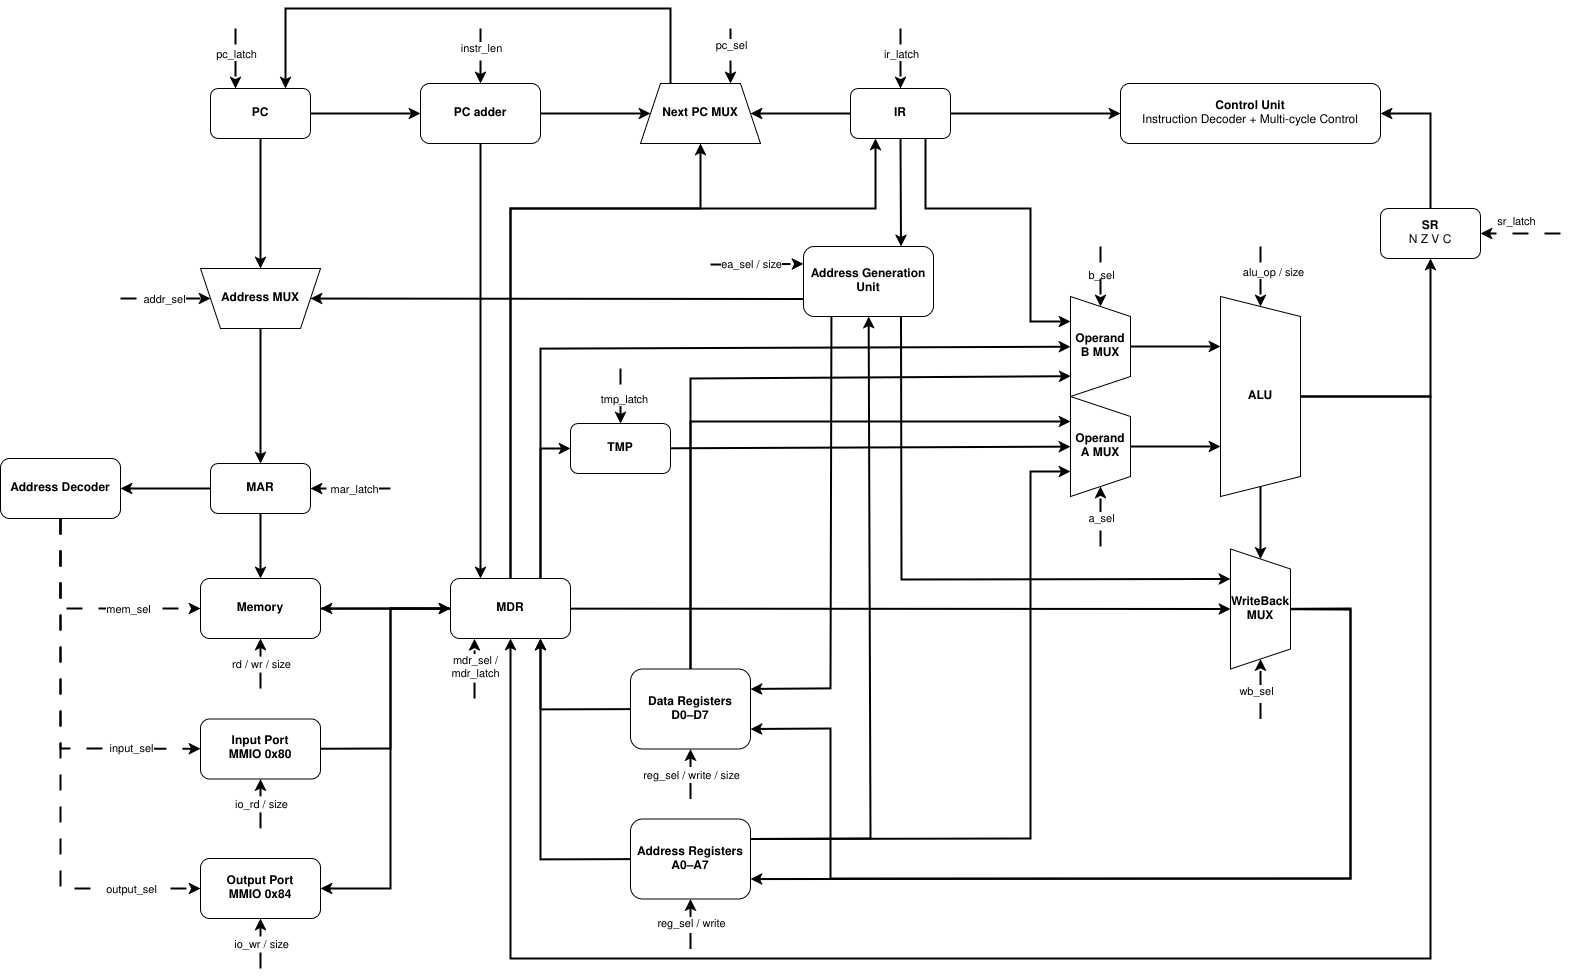
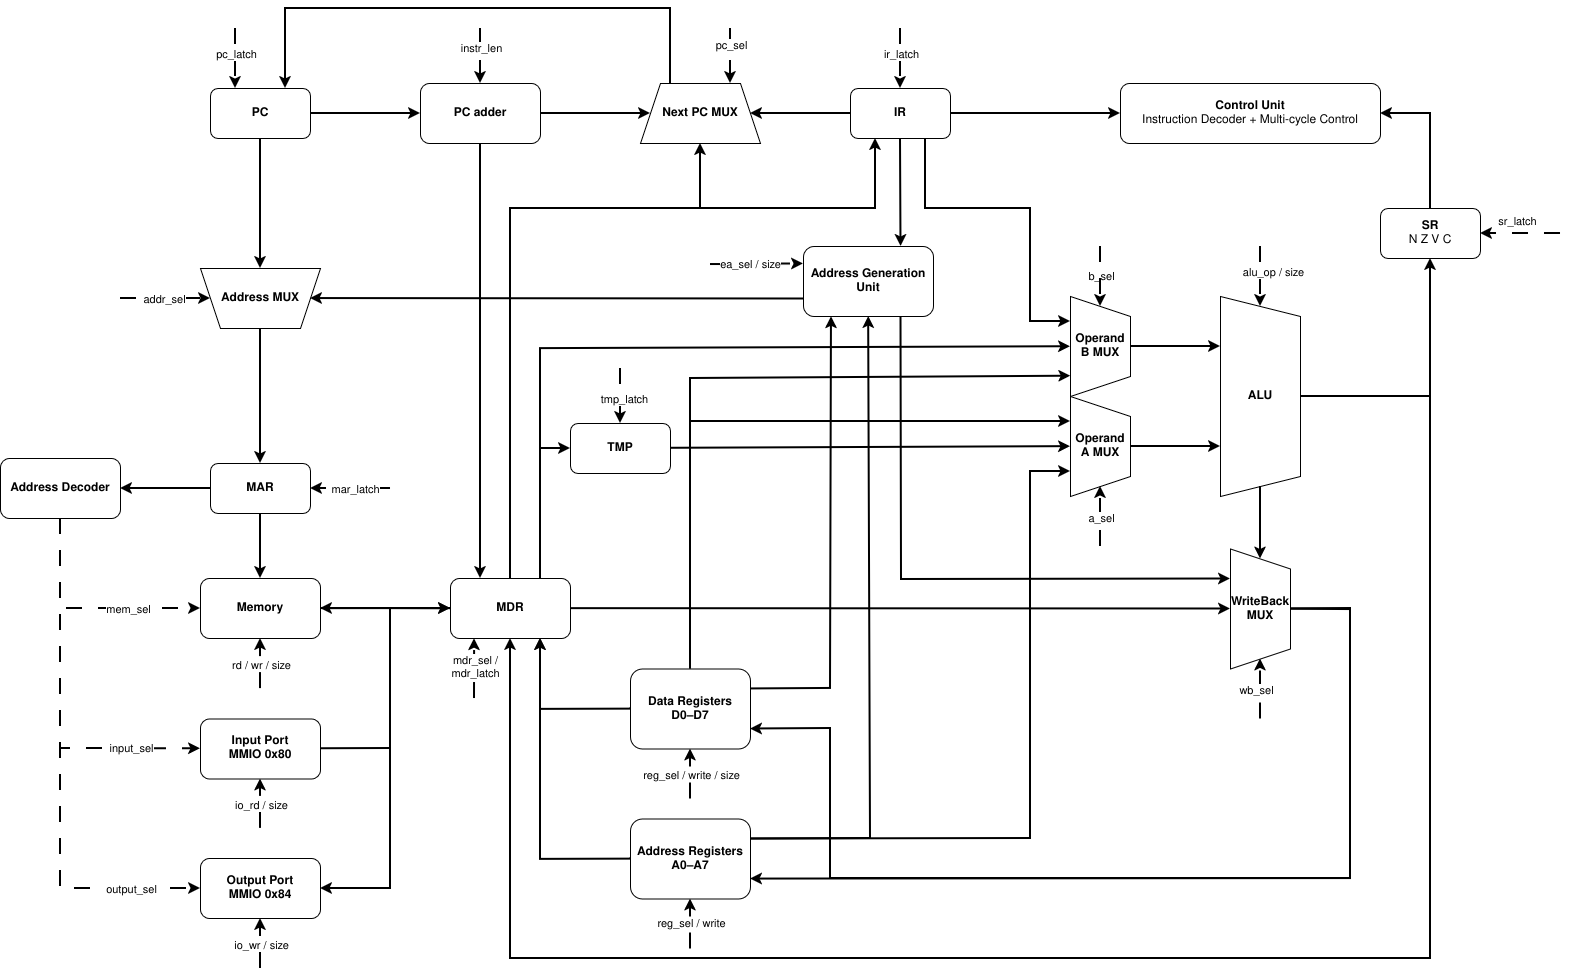
f

diff --git a/README.md b/README.md
@@ -1,2 +1,2 @@
 # Лабораторная работа №3. Схема M68k
-![M68k](m68k.png)
+![M68k](M68k.png)